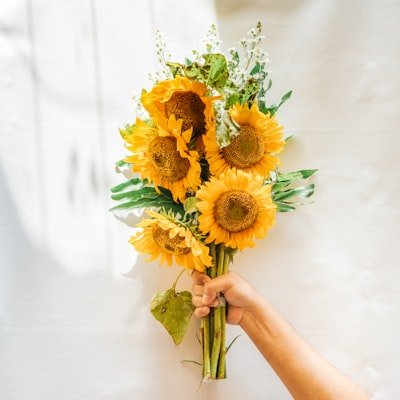
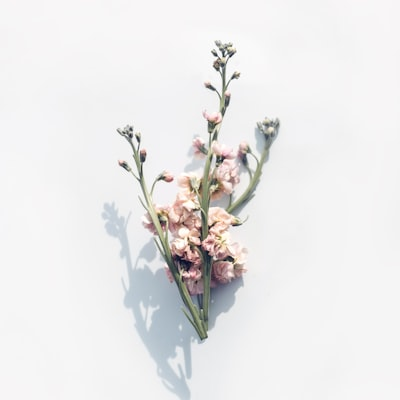
Rediseño en paleta rosa palo y feed más suave
La tienda usaba terracota y verde salvia. Ahora va en rosa palo /
rose gold sobre marfil rosado, con tipografía más aireada en las
etiquetas de sección.

Los seis tonos de la paleta están comprobados contra WCAG AA (4.5:1).
El acento se ajustó de #A85F6B a #A35A66 porque el primero quedaba en
4.3:1 sobre el fondo crema — se veía bien pero no pasaba.

Imágenes:
- Feed de Instagram completo: peonías, rosas crema y rama seca en
  tonos blush, en vez de la mezcla anterior.
- Hero: ramo envuelto en papel rosa, más claro y aireado que el
  bouquet oscuro que había.
- Categoría Regalos: regalo con listón en tonos pálidos, en vez de
  la foto fucsia que chocaba con todo lo demás.
- Favicon y og-image regenerados en la paleta nueva.

Los degradados de las tarjetas de categoría y ocasión se reforzaron:
con las fotos claras nuevas, el texto blanco encima era ilegible.

diff --git a/index.html b/index.html
@@ -47,19 +47,22 @@
 
     <style>
         :root {
-            --bg: #FDFCFA;
-            --text: #1A1A1A;
-            --text-light: #7A7A7A;
-            --accent: #C4917B;
-            --accent-dark: #A67460;
-            --accent-light: #F5EDE8;
-            --green: #6B8F71;
-            --green-light: #EDF2ED;
-            --red: #D4545E;
-            --border: #EBEBEB;
+            /* Paleta rosa palo / rose gold.
+               Los tonos de texto y acento cumplen contraste AA (4.5:1)
+               sobre fondo claro — comprobado, no cambiar a ojo. */
+            --bg: #FFFCFC;
+            --text: #2B2226;
+            --text-light: #7D6E73;
+            --accent: #A35A66;
+            --accent-dark: #8A4A55;
+            --accent-light: #F8EDEF;
+            --green: #8AA090;
+            --green-light: #EFF3EF;
+            --red: #C75B68;
+            --border: #F0E7E9;
             --white: #FFFFFF;
-            --cream: #F8F5F1;
-            --gold: #D4A853;
+            --cream: #FBF4F3;
+            --gold: #C6A664;
             --serif: 'Playfair Display', Georgia, serif;
             --sans: 'Inter', -apple-system, sans-serif;
             --shadow-sm: 0 1px 3px rgba(0,0,0,0.04);
@@ -505,11 +508,12 @@
         }
 
         .section-label {
-            font-size: 0.72rem;
-            letter-spacing: 0.15em;
+            font-size: 0.68rem;
+            letter-spacing: 0.26em;
             text-transform: uppercase;
-            color: var(--accent-dark);
-            margin-bottom: 0.4rem;
+            font-weight: 500;
+            color: var(--accent);
+            margin-bottom: 0.85rem;
             display: block;
         }
 
@@ -557,7 +561,10 @@
         .cat-card-overlay {
             position: absolute;
             inset: 0;
-            background: linear-gradient(transparent 40%, rgba(0,0,0,0.6));
+            /* El degradado tiene que ser lo bastante oscuro para que el texto
+               blanco se lea también sobre fotos claras (la de Regalos es casi
+               blanca). Si aclaras esto, revisa las cuatro tarjetas. */
+            background: linear-gradient(transparent 28%, rgba(30,22,25,0.45) 58%, rgba(30,22,25,0.82));
         }
 
         .cat-card-label {
@@ -1059,7 +1066,9 @@
         .occasion-overlay {
             position: absolute;
             inset: 0;
-            background: linear-gradient(transparent, rgba(0,0,0,0.65));
+            /* Mismo criterio que .cat-card-overlay: varias fotos de ocasión
+               son muy claras y el texto blanco desaparecía encima. */
+            background: linear-gradient(transparent 22%, rgba(30,22,25,0.48) 55%, rgba(30,22,25,0.85));
             display: flex;
             flex-direction: column;
             justify-content: flex-end;
@@ -1726,7 +1735,7 @@
         <div class="hero-visual">
             <div class="hero-img">
                 <div class="live-badge"><span class="live-dot"></span> <span id="liveViewers">12</span> personas viendo</div>
-                <img src="/images/hero/principal.jpg" alt="Ramo de rosas premium con eucalipto y flores de temporada">
+                <img src="/images/hero/principal.jpg" alt="Ramo en tonos rosa envuelto en papel, listo para regalar">
             </div>
             <div class="hero-img">
                 <img src="/images/hero/tulipanes.jpg" alt="Arreglo de tulipanes rosas en jarrón de vidrio">
@@ -1801,7 +1810,7 @@
                     </div>
                 </div>
                 <div class="cat-card" onclick="filterProducts('gifts')">
-                    <img loading="lazy" src="/images/categorias/regalos.jpg" alt="Categoría Regalos y Combos — caja de chocolates con flores">
+                    <img loading="lazy" src="/images/categorias/regalos.jpg" alt="Categoría Regalos y Combos — regalo envuelto en tonos blush con listón">
                     <div class="cat-card-overlay"></div>
                     <span class="cat-count">5 productos</span>
                     <div class="cat-card-label">
@@ -2050,19 +2059,19 @@
             </div>
             <div class="ig-grid fade-in">
                 <a class="ig-item" href="https://instagram.com/botanicastudio.mx" target="_blank" rel="noopener">
-                    <img loading="lazy" src="/images/instagram/01.jpg" alt="Publicación de Instagram: ramo de rosas premium">
+                    <img loading="lazy" src="/images/instagram/01.jpg" alt="Publicación de Instagram: Peonías rosas en tonos pastel">
                 </a>
                 <a class="ig-item" href="https://instagram.com/botanicastudio.mx" target="_blank" rel="noopener">
-                    <img loading="lazy" src="/images/instagram/02.jpg" alt="Publicación de Instagram: tulipanes rosas">
+                    <img loading="lazy" src="/images/instagram/02.jpg" alt="Publicación de Instagram: Rosas color crema y blush">
                 </a>
                 <a class="ig-item" href="https://instagram.com/botanicastudio.mx" target="_blank" rel="noopener">
-                    <img loading="lazy" src="/images/instagram/03.jpg" alt="Publicación de Instagram: ramo de girasoles">
+                    <img loading="lazy" src="/images/instagram/03.jpg" alt="Publicación de Instagram: Rama floral delicada sobre fondo claro">
                 </a>
                 <a class="ig-item" href="https://instagram.com/botanicastudio.mx" target="_blank" rel="noopener">
-                    <img loading="lazy" src="/images/instagram/04.jpg" alt="Publicación de Instagram: ramo primaveral en tonos rosa">
+                    <img loading="lazy" src="/images/instagram/04.jpg" alt="Publicación de Instagram: Peonías color marfil">
                 </a>
                 <a class="ig-item" href="https://instagram.com/botanicastudio.mx" target="_blank" rel="noopener">
-                    <img loading="lazy" src="/images/instagram/05.jpg" alt="Publicación de Instagram: rosas rojas de tallo largo">
+                    <img loading="lazy" src="/images/instagram/05.jpg" alt="Publicación de Instagram: Rosas en tono rosa viejo">
                 </a>
             </div>
         </div>
